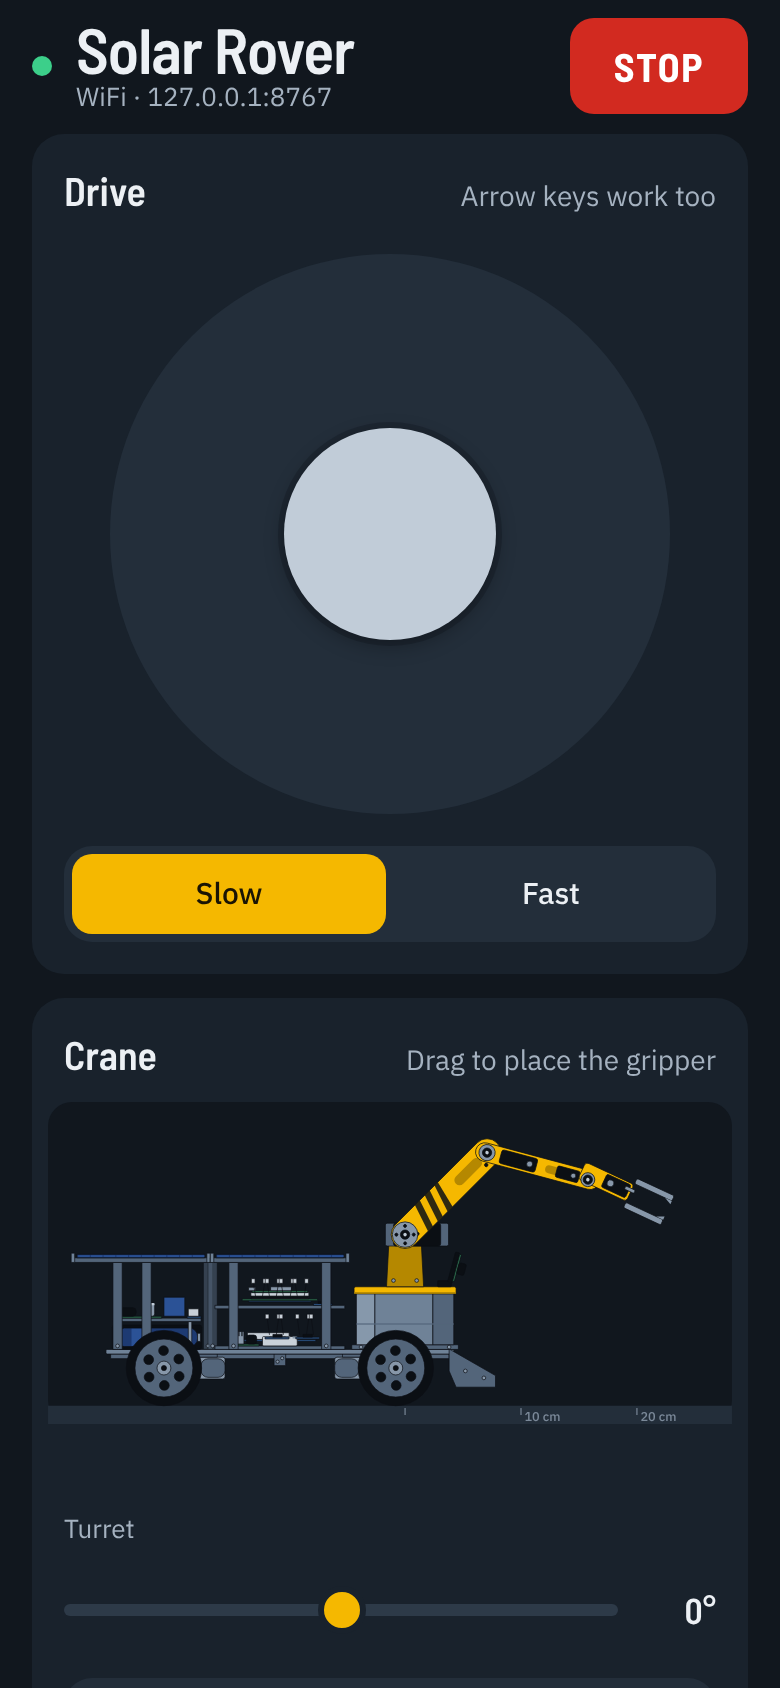
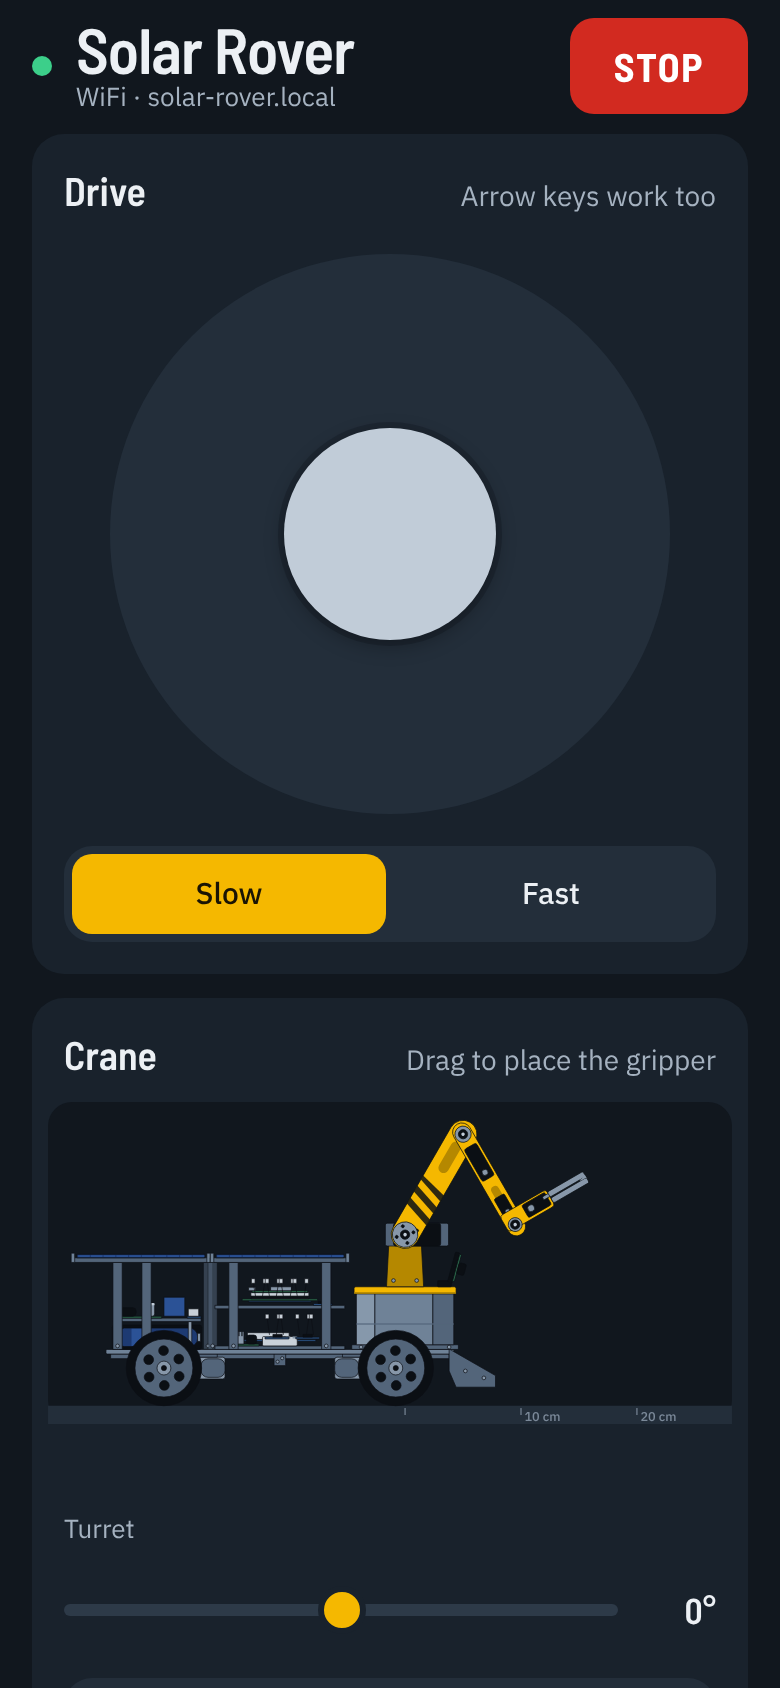
Check the phone app and website in a real browser against a fake car
tools/app_check.js serves the repo, opens the app at phone size in Chromium
and answers its WebSocket as a fake car. It drives with the stick and arrow
keys, presses STOP, every mode and pose, drags the crane, feeds low and
critical battery readings, drops the link, and checks every line the app
sends. It also checks the website (pictures, anchors, theme switch, crane)
and fails on sideways scroll or a control under 44 px. --shots redraws the
README screenshots. CI runs it in a new web job.

The check found two controls under 44 px: the Retry button in the app's
link banner (40) and the website's theme button (36). Both are 44 now.

Claude-Session: https://claude.ai/code/session_016oPmBptoRr1DTraJVnNx7A

Changed region(s): [[0.4923, 0.6469, 0.8615, 0.7393], [0.1846, 0.0308, 0.4308, 0.0616]]

diff --git a/tools/app_check.js b/tools/app_check.js
@@ -1,0 +1,279 @@
+#!/usr/bin/env node
+// Checks the phone app and the website in a real browser, against a fake car.
+//
+//   node tools/app_check.js            run the checks (CI does this)
+//   node tools/app_check.js --shots    also redraw docs/img/app.png, app-light.png, site.png
+//
+// The app is served the way the car serves it (plain http, the page opens
+// ws://<same host>/ws). Playwright answers that WebSocket itself, so the "car"
+// is a few lines below: it records every line the app sends and can push
+// telemetry back. Needs the playwright npm package and its Chromium.
+'use strict';
+const http = require('http');
+const fs = require('fs');
+const path = require('path');
+const { chromium } = require('playwright');
+
+const ROOT = path.resolve(__dirname, '..');
+const SHOTS = process.argv.includes('--shots');
+const PHONE = { width: 390, height: 844 };
+const TYPES = { '.html': 'text/html', '.css': 'text/css', '.js': 'text/javascript', '.woff2': 'font/woff2',
+  '.png': 'image/png', '.gif': 'image/gif', '.svg': 'image/svg+xml', '.json': 'application/json' };
+
+// One telemetry line as firmware/car/src/telemetry.cpp writes it.
+const TEL = {
+  bat_pct: 72, bat_v: 7.86, chg: 'solar', sol_mw: 3420, chg_ma: 410, temp_c: 24, tof: 820,
+  spd: [210, 205, 215, 200], imu: [0, 0, 9.8, 0, 0, 12], src: 'APP', ovr: false, mode: 'manual',
+  arm: [0, 60, 120, 90, 0], low: false, crit: false,
+};
+
+// ---------- tiny static server for the repo ----------
+function serve() {
+  const srv = http.createServer((req, res) => {
+    let p = decodeURIComponent(new URL(req.url, 'http://x').pathname);
+    if (p.endsWith('/')) p += 'index.html';
+    const f = path.join(ROOT, p);
+    if (!f.startsWith(ROOT + path.sep)) { res.writeHead(403).end(); return; }
+    fs.readFile(f, (err, data) => {
+      if (err) { res.writeHead(404).end('not found'); return; }
+      res.writeHead(200, { 'content-type': TYPES[path.extname(f)] || 'application/octet-stream' }).end(data);
+    });
+  });
+  return new Promise(ok => srv.listen(0, '127.0.0.1', () => ok(srv)));
+}
+
+// ---------- the fake car ----------
+async function fakeCar(page) {
+  const car = { got: [], sockets: [], connects: 0 };
+  await page.routeWebSocket(/\/ws$/, ws => {
+    car.connects++; car.sockets.push(ws);
+    ws.onMessage(m => car.got.push(String(m)));
+  });
+  car.tel = extra => car.sockets.at(-1).send(JSON.stringify({ ...TEL, ...extra }));
+  car.drop = () => car.sockets.at(-1).close();
+  // the lines the app sent, without the 60 ms "H" heartbeats
+  car.lines = () => car.got.filter(l => l !== 'H');
+  car.clear = () => { car.got.length = 0; };
+  return car;
+}
+
+// ---------- reporting ----------
+let failed = 0;
+async function check(name, fn) {
+  try { await fn(); console.log('  ok   ' + name); }
+  catch (e) { failed++; console.log('  FAIL ' + name + '\n       ' + String(e.message || e).split('\n')[0]); }
+}
+function expect(cond, msg) { if (!cond) throw new Error(msg); }
+async function until(fn, msg, ms = 2000) {
+  const end = Date.now() + ms;
+  for (;;) { const v = await fn(); if (v) return v; if (Date.now() > end) throw new Error(msg); await new Promise(r => setTimeout(r, 25)); }
+}
+const text = (page, sel) => page.locator(sel).innerText();
+
+// Layout rules every page must keep at phone width.
+async function phoneLayout(page) {
+  return page.evaluate(() => {
+    const out = [];
+    const sw = document.documentElement.scrollWidth, cw = document.documentElement.clientWidth;
+    if (sw > cw) out.push(`page scrolls sideways (${sw} px wide in a ${cw} px screen)`);
+    for (const el of document.querySelectorAll('button, [role=button], input, select, a.btn')) {
+      // a segmented control's buttons sit inside one padded track: the track is the target
+      const r = (el.parentElement.classList.contains('seg') ? el.parentElement : el).getBoundingClientRect();
+      if (!r.width || getComputedStyle(el).visibility === 'hidden') continue;
+      const name = el.getAttribute('aria-label') || el.innerText.trim() || el.id || el.tagName;
+      const tall = el.type === 'range' ? 24 : 44;   // a slider's thumb is bigger than its track
+      if (r.height < tall - 0.5) out.push(`"${name}" is ${Math.round(r.height)} px tall, under ${tall} px`);
+      if (el.tagName === 'BUTTON' && !name) out.push('a button has no name');
+    }
+    return out;
+  });
+}
+
+async function main() {
+  const srv = await serve();
+  const base = `http://127.0.0.1:${srv.address().port}`;
+  const browser = await chromium.launch();
+  const errors = [];
+  const newPage = async (opts = {}) => {
+    const ctx = await browser.newContext({ viewport: PHONE, deviceScaleFactor: SHOTS ? 2 : 1, hasTouch: true, ...opts });
+    const page = await ctx.newPage();
+    page.on('pageerror', e => errors.push(e.message));
+    page.on('console', m => { if (m.type() === 'error') errors.push(m.text()); });
+    page.on('requestfailed', r => errors.push('failed to load ' + r.url()));
+    page.on('response', r => { if (r.status() >= 400) errors.push(`${r.status()} ${r.url()}`); });
+    return page;
+  };
+
+  console.log('Phone app (firmware/car/web) against a fake car');
+  const page = await newPage({ colorScheme: 'dark' });
+  const car = await fakeCar(page);
+  await page.goto(base + '/firmware/car/web/');
+
+  await check('connects to ws://<host>/ws on its own', async () => {
+    await until(() => car.connects === 1, 'the app never opened the WebSocket');
+    await until(async () => (await text(page, '#link')).startsWith('WiFi'), 'the header never said WiFi');
+  });
+  await check('shows a waiting note until the first reading', async () => {
+    expect(await page.locator('#waiting').isVisible(), 'no waiting note');
+    expect(await text(page, '#pct') === '--', 'battery shows a number before any reading');
+  });
+  await check('sends a heartbeat while nobody drives', async () => {
+    await until(() => car.got.includes('H'), 'no H heartbeat within 2 s');
+  });
+  await check('shows the telemetry the car sends', async () => {
+    car.tel();
+    await until(async () => (await text(page, '#pct')) === '72%', 'battery % not shown');
+    const want = { '#volt': '7.86 V', '#chg': 'Sun', '#sol': '3.42 W', '#cur': '410 mA', '#temp': '24 °C',
+      '#tof': '82 cm', '#spd': '0.21 m/s', '#yawr': '12 °/s', '#driver': 'APP' };
+    for (const [sel, v] of Object.entries(want)) expect(await text(page, sel) === v, `${sel} shows "${await text(page, sel)}", wanted "${v}"`);
+    expect(await page.locator('#waiting').isHidden(), 'the waiting note stayed up');
+    expect(await page.locator('[data-mode=manual]').getAttribute('aria-pressed') === 'true', 'the Manual button is not marked');
+  });
+  await check('arrow keys drive: forward, then a stop when released', async () => {
+    await page.locator('#pad').focus(); car.clear();
+    await page.keyboard.down('ArrowUp');
+    await until(() => car.lines().includes('V 500 0'), `no "V 500 0" (got ${car.lines().slice(0, 3)})`);
+    await page.keyboard.up('ArrowUp');
+    await until(() => car.lines().at(-1) === 'V 0 0', 'no "V 0 0" after letting go');
+  });
+  await check('Fast doubles the speed, left turns left', async () => {
+    await page.click('#fast'); await page.locator('#pad').focus(); car.clear();
+    await page.keyboard.down('ArrowLeft');
+    await until(() => car.lines().includes('V 0 800'), `no "V 0 800" (got ${car.lines().slice(0, 3)})`);
+    await page.keyboard.up('ArrowLeft'); await page.click('#slow');
+  });
+  await check('dragging the stick drives, and it springs back', async () => {
+    const b = await page.locator('#pad').boundingBox(); car.clear();
+    await page.mouse.move(b.x + b.width / 2, b.y + b.height / 2);
+    await page.mouse.down(); await page.mouse.move(b.x + b.width / 2, b.y + 4, { steps: 4 });
+    await until(() => car.lines().some(l => /^V [34]\d\d /.test(l)), `no forward V line (got ${car.lines().slice(0, 3)})`);
+    await page.mouse.up();
+    await until(() => car.lines().at(-1) === 'V 0 0', 'no "V 0 0" after release');
+  });
+  await check('STOP button and the Escape key both send S', async () => {
+    car.clear(); await page.click('#stop');
+    await until(() => car.lines().includes('S'), 'STOP sent nothing');
+    car.clear(); await page.keyboard.press('Escape');
+    await until(() => car.lines().includes('S'), 'Escape sent nothing');
+  });
+  await check('mode buttons send M <mode>', async () => {
+    for (const m of ['auto', 'agent', 'manual']) {
+      car.clear(); await page.click(`[data-mode=${m}]`);
+      await until(() => car.lines().includes('M ' + m), `no "M ${m}"`);
+    }
+  });
+  await check('arm poses, gripper and base slider', async () => {
+    for (const p of ['park', 'ready', 'pick', 'carry']) {
+      car.clear(); await page.click(`[data-pose=${p}]`);
+      await until(() => car.lines().includes('P ' + p), `no "P ${p}"`);
+    }
+    car.clear(); await page.click('#grip');
+    await until(() => /^G (0|90)$/.test(car.lines().at(-1) || ''), 'the gripper button sent no G');
+    car.clear(); await page.locator('#yaw').fill('45');
+    await until(() => car.lines().includes('A 45 * * * *'), 'the slider sent no "A 45 * * * *"');
+  });
+  await check('dragging in the crane view sends a joint target', async () => {
+    // grab the gripper where it is drawn and pull it a little out and down
+    await page.waitForTimeout(800);   // let the arm settle after the pose buttons
+    await page.locator('#crane').evaluate(e => e.scrollIntoView({ block: 'center' }));   // clear of the sticky header
+    const h = await page.locator('#crane .handle').boundingBox(); car.clear();
+    const x = h.x + h.width / 2, y = h.y + h.height / 2;
+    await page.mouse.move(x, y); await page.mouse.down();
+    await page.mouse.move(x + 12, y + 10, { steps: 5 }); await page.mouse.up();
+    await until(() => car.lines().some(l => /^A \* -?\d+ -?\d+ -?\d+ \*$/.test(l)),
+      `no "A * s e w *" (got [${car.lines().slice(0, 3)}], crane says "${await text(page, '#craneStatus')}", hit ${await page.evaluate(([x, y]) => document.elementFromPoint(x, y)?.outerHTML.slice(0, 60), [x, y])})`);
+  });
+  await check('low and critical battery banners', async () => {
+    car.tel({ bat_pct: 22, low: true });
+    await until(async () => (await text(page, '#warn')).startsWith('Battery low'), 'no low-battery banner');
+    car.tel({ bat_pct: 8, low: true, crit: true });
+    await until(async () => (await text(page, '#warn')).startsWith('Battery critical'), 'no critical banner');
+    car.tel();
+    await until(() => page.locator('#warn').isHidden(), 'the banner stayed after the battery recovered');
+  });
+  await check('a plain text reply shows under Connection', async () => {
+    car.sockets.at(-1).send('ok WIFI saved');
+    await until(async () => (await text(page, '#reply')) === 'ok WIFI saved', 'the reply was not shown');
+  });
+  await check('Save and restart refuses spaces, then sends WIFI and RESTART', async () => {
+    await page.fill('#ssid', 'my net'); await page.fill('#pass', 'pw'); car.clear(); await page.click('#saveWifi');
+    expect((await text(page, '#reply')).includes("can't contain spaces"), 'no warning about spaces');
+    expect(!car.lines().some(l => l.startsWith('WIFI')), 'it sent a network name with a space');
+    await page.fill('#ssid', 'mynet'); await page.click('#saveWifi');
+    await until(() => car.lines().includes('WIFI mynet pw') && car.lines().includes('RESTART'), 'no WIFI + RESTART');
+  });
+  await check('phone layout: no sideways scroll, every control at least 44 px', async () => {
+    const bad = await phoneLayout(page);
+    expect(!bad.length, bad.join('; '));
+  });
+  await check('losing the car shows a banner, then it reconnects', async () => {
+    car.drop();
+    await until(() => page.locator('#linkBanner').isVisible(), 'no lost-car banner');
+    expect((await text(page, '#linkText')).startsWith('Lost the car'), 'the banner does not say the car was lost');
+    expect(await page.locator('#retry').isVisible(), 'no Retry button');
+    await page.click('#retry');
+    await until(() => car.connects === 2, 'Retry did not reconnect');
+    await until(() => page.locator('#linkBanner').isHidden(), 'the banner stayed after reconnecting');
+  });
+  await check('no script errors and every file loaded', async () => {
+    expect(!errors.length, errors.join('; '));
+  });
+
+  // screenshots from fresh pages, one per theme
+  if (SHOTS) for (const [scheme, file] of [['dark', 'app.png'], ['light', 'app-light.png']]) {
+    const p = await newPage({ colorScheme: scheme }); const c = await fakeCar(p);
+    await p.goto(base + '/firmware/car/web/');
+    await until(() => c.connects === 1, 'no connection'); await p.waitForTimeout(200);
+    c.tel(); await p.click('[data-pose=ready]'); await p.waitForTimeout(1600);
+    // the header names the host the page came from; on the car that is solar-rover.local, not this test server
+    await p.evaluate(() => { document.getElementById('link').textContent = 'WiFi · solar-rover.local'; document.activeElement.blur(); scrollTo(0, 0); });
+    await p.screenshot({ path: path.join(ROOT, 'docs/img/' + file) });
+  }
+
+  console.log('Website (docs/index.html)');
+  errors.length = 0;
+  const site = await newPage({ colorScheme: 'dark' });
+  await site.goto(base + '/docs/index.html');
+  await check('loads every picture and font', async () => {
+    await site.evaluate(async () => { for (const i of document.images) { i.loading = 'eager'; } await document.fonts.ready; });
+    await until(() => site.evaluate(() => [...document.images].every(i => i.complete)), 'pictures still loading');
+    const broken = await site.evaluate(() => [...document.images].filter(i => !i.naturalWidth).map(i => i.getAttribute('src')));
+    expect(!broken.length, 'broken pictures: ' + broken.join(', '));
+  });
+  await check('every #link on the page has a target', async () => {
+    const missing = await site.evaluate(() => [...document.querySelectorAll('a[href^="#"]')]
+      .map(a => a.getAttribute('href').slice(1)).filter(id => id && !document.getElementById(id)));
+    expect(!missing.length, 'no target for #' + missing.join(', #'));
+  });
+  await check('the theme button switches dark and light', async () => {
+    const before = await site.evaluate(() => getComputedStyle(document.documentElement).backgroundColor);
+    await site.click('#theme');
+    const after = await site.evaluate(() => getComputedStyle(document.documentElement).backgroundColor);
+    expect(before !== after, 'the background did not change');
+    await site.click('#theme');
+  });
+  await check('the crane poses move the arm', async () => {
+    const pose = await site.locator('[data-pose]').nth(1);
+    await pose.click();
+    await until(async () => (await pose.getAttribute('aria-pressed')) === 'true', 'the pose button was not marked');
+  });
+  await check('phone layout: no sideways scroll, every control at least 44 px', async () => {
+    const bad = await phoneLayout(site);
+    expect(!bad.length, bad.join('; '));
+  });
+  await check('no script errors and every file loaded', async () => {
+    expect(!errors.length, errors.join('; '));
+  });
+  if (SHOTS) {
+    const p = await newPage({ viewport: { width: 1280, height: 800 }, deviceScaleFactor: 1, hasTouch: false, colorScheme: 'dark' });
+    await p.goto(base + '/docs/index.html'); await p.waitForTimeout(1500);
+    await p.screenshot({ path: path.join(ROOT, 'docs/img/site.png') });
+    console.log('Redrew docs/img/app.png, app-light.png and site.png');
+  }
+
+  await browser.close(); srv.close();
+  console.log(failed ? `${failed} check(s) failed` : 'All checks passed');
+  process.exit(failed ? 1 : 0);
+}
+
+main().catch(e => { console.error(e); process.exit(1); });

diff --git a/docs/site.css b/docs/site.css
@@ -24,7 +24,7 @@ p+p{margin-top:var(--s4)}
 .bar nav{display:flex;gap:var(--s5)}
 .bar nav a,.gh{font-weight:500;font-size:.9375rem;color:var(--ink-2);text-decoration:none;padding:var(--s2) 0}
 .bar nav a:hover,.gh:hover{color:var(--ink)}
-.theme{font:500 .875rem var(--text);color:var(--ink);background:var(--raised);border:0;border-radius:var(--r-s);min-height:36px;padding:0 var(--s3);cursor:pointer}
+.theme{font:500 .875rem var(--text);color:var(--ink);background:var(--raised);border:0;border-radius:var(--r-s);min-height:44px;padding:0 var(--s3);cursor:pointer}
 @media (max-width:760px){.bar nav{display:none}.bar{gap:var(--s4)}}
 
 /* ---------- buttons ---------- */

diff --git a/firmware/car/web/index.html b/firmware/car/web/index.html
@@ -33,7 +33,7 @@ h1{font-size:32px;line-height:1;letter-spacing:-.015em}
 .banner p{flex:1}
 .banner.warn{background:var(--warn-bg);color:var(--warn-ink)}
 .banner.bad{background:var(--bad-bg);color:var(--bad-ink)}
-.banner button{flex:none;min-height:40px}
+.banner button{flex:none;min-height:44px}
 .banner[hidden]{display:none}
 
 /* ---------- layout ---------- */

diff --git a/docs/software.md b/docs/software.md
@@ -56,6 +56,8 @@ Pairing also gives the remote the key for the **long-range LoRa link** (protocol
 - use the free **Adafruit Bluefruit Connect** app (Android and iPhone): connect to "SolarRover", then Controller → Control Pad; or
 - open the same app from GitHub Pages in Chrome on Android or a PC. This needs a public repo: Settings → Pages → deploy from branch `main`. The page is then at `https://<you>.github.io/solar-rover/firmware/car/web/`. iPhone Safari has no Web Bluetooth; use Bluefruit Connect there.
 
+**Changing the app or the website:** `node tools/app_check.js` opens both in a real browser at phone size, with a fake car on the other end of the WebSocket. It drives with the stick and the arrow keys, presses STOP, every mode and pose, drags the crane, feeds in low and critical battery readings, drops the link and checks every line the app sends. It also fails if anything scrolls sideways or a control is under 44 px. CI runs it on every push. Add `--shots` to redraw `docs/img/app.png`, `app-light.png` and `site.png`. It needs Node and Playwright once: `npm install --no-save playwright && npx playwright install chromium`.
+
 ## 4. Simulator and training (on your PC)
 
 ```bash
